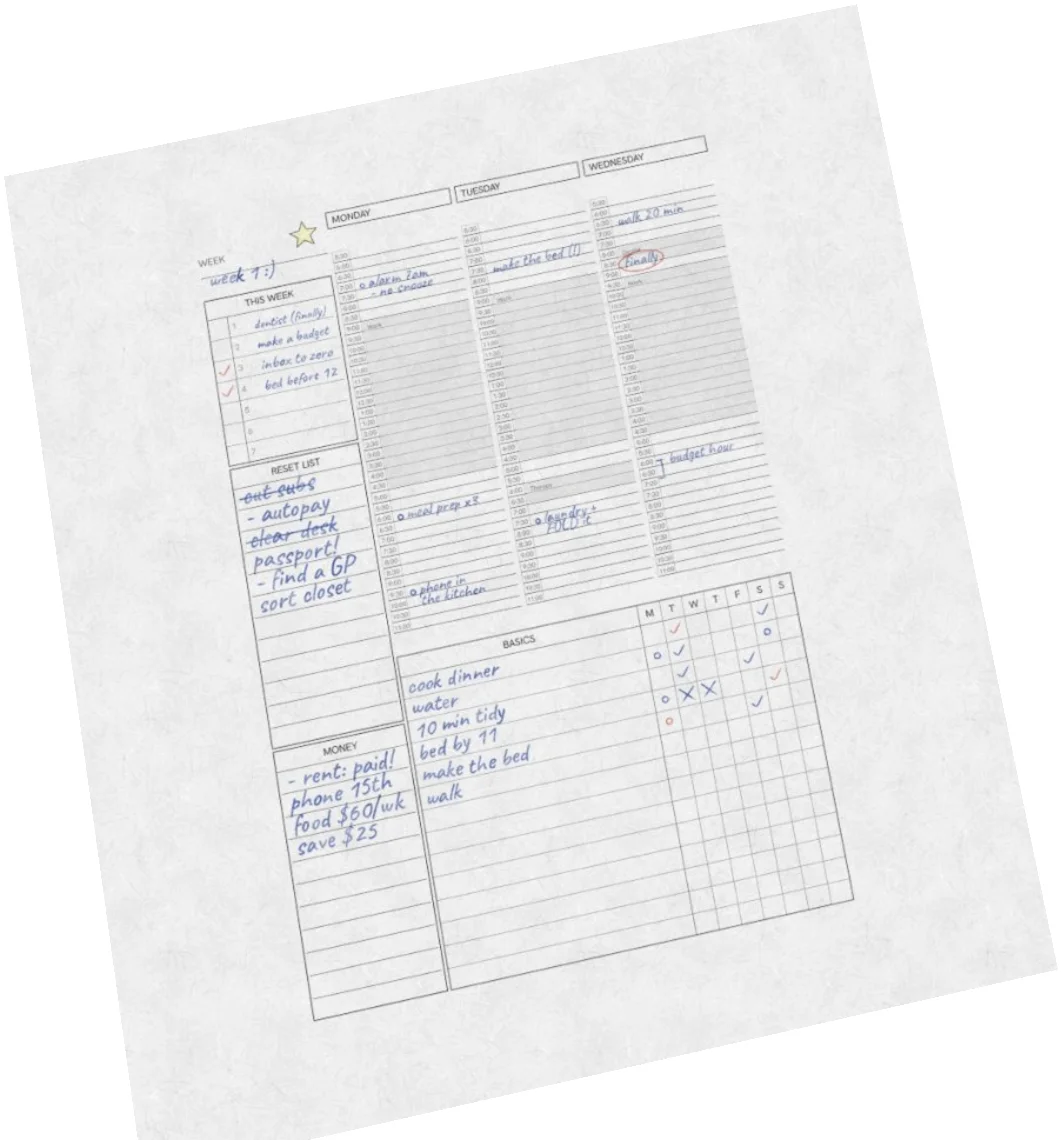
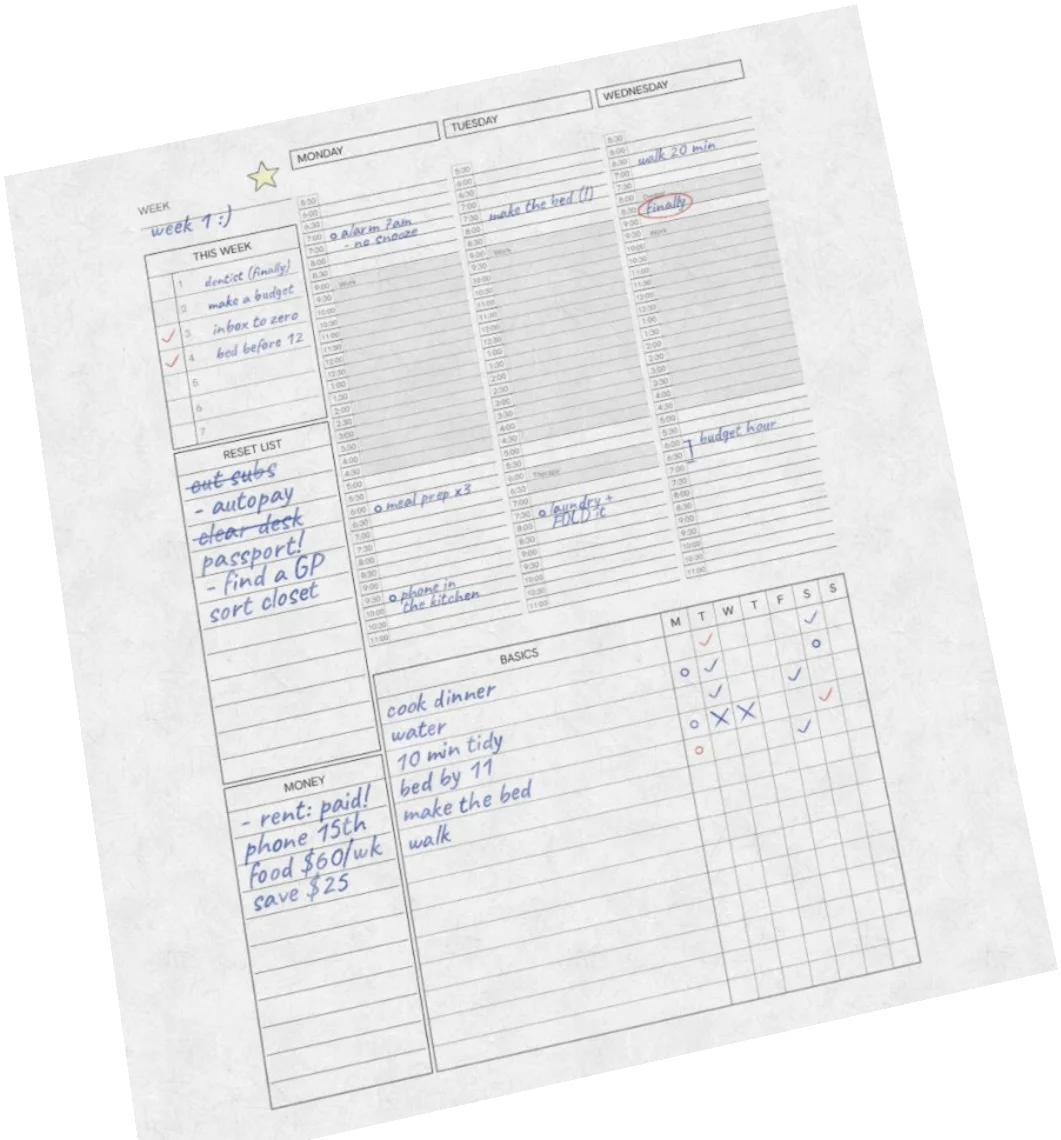
Hero: the base week printed to fit its loose sheets
The layouts were too small on the sheets. The whole 7 x 10 page,
margins and all, was centred on a sheet that is nearly square in the
film. Now the layout is printed without the page's own blank margins,
as tall as the sheet less a printer's quarter inch: about 21% bigger.

The right page's plans moved to its right half. The book's corner lies
across the right sheet's bottom left and was covering the start of every
line of "When It's Sorted".

diff --git a/src/app/dev/sheets/SheetsBake.tsx b/src/app/dev/sheets/SheetsBake.tsx
@@ -2,14 +2,15 @@
 
 // The base week on the hero's loose sheets: each page printed and written
 // in as the journal's are (PageSurface, bare; the handwriting, finished),
-// centred on its sheet like a printout, and baked into the film by
+// printed to fit its sheet (looseSheets.ts, BASE_SHEET), and baked into the film by
 // bakeSheet - then shown on the film's resting frame, clipped to the book as
 // the hero clips it. The baked pictures are left on `window.__heroSheets`
 // for scripts/build-hero-sheets.mts to save.
 
 import { useEffect, useState } from "react";
 import type { LandingSpread } from "@/app/landing/spreads";
-import { PageSurface } from "@/app/landing/desk/pageSurface";
+import { PAGE_H, PageSurface } from "@/app/landing/desk/pageSurface";
+import { PLANNER_TRIMS } from "@/lib/planner-trims";
 import { familiesFor, planSpread } from "@/app/landing/handwriting/plan";
 import { inkTimeline, paintInk, prepareInk } from "@/app/landing/handwriting/ink";
 import { loadArtIndex } from "@/app/landing/handwriting/art";
@@ -31,7 +32,14 @@ const load = (src: string) =>
 async function bake(spread: LandingSpread, seed: number): Promise<Baked> {
   const tileW = SHEET_TILE.w * SHEET_TILE.scale;
   const tileH = SHEET_TILE.h * SHEET_TILE.scale;
-  const height = Math.round(tileH * BASE_SHEET.fill);
+  // What is printed: the layout's grid, inside the page's own margins, and
+  // a little round it for ink that runs over its edge (print px).
+  const { widthPx, heightPx, marginPx } = PLANNER_TRIMS.bound7x10;
+  const inset = marginPx - 24;
+  const crop = [inset, inset, widthPx - 2 * inset, heightPx - 2 * inset];
+  // As tall as the sheet less the printer's margin: tile px per print px.
+  const fit = (tileH - 2 * BASE_SHEET.margin * SHEET_TILE.scale) / crop[3];
+  const height = Math.round(PAGE_H * fit);
   const pages = [new PageSurface(height, { bare: true }), new PageSurface(height, { bare: true })] as const;
   for (const [i, page] of spread.pages.entries()) await pages[i].print(page, spread.fontFamily, i === 0 ? "left" : "right");
 
@@ -52,7 +60,9 @@ async function bake(spread: LandingSpread, seed: number): Promise<Baked> {
     const g = tile.getContext("2d")!;
     g.fillStyle = "#ffffff";
     g.fillRect(0, 0, tileW, tileH);
-    g.drawImage(page, Math.round((tileW - page.width) / 2), Math.round((tileH - page.height) / 2));
+    const s = pages[i].scale;
+    const [w, h] = [crop[2] * fit, crop[3] * fit];
+    g.drawImage(page, crop[0] * s, crop[1] * s, crop[2] * s, crop[3] * s, (tileW - w) / 2, (tileH - h) / 2, w, h);
     tiles[id] = tile.toDataURL("image/png");
     sheets[id] = await bakeSheet(sheetBakeInput(id, tiles[id], (p) => p));
   }

diff --git a/src/app/landing/looseSheets.ts b/src/app/landing/looseSheets.ts
@@ -19,17 +19,22 @@ import { SHEETS, sheetMaskPath, type SheetId } from "./video/sheets";
 
 /** A sheet's own units: about the paper's proportions (a sheet measures
  *  1.15 tall to 1 across, taking out the camera's slant), and the margin of
- *  paper left round what is on it. */
+ *  paper left round the tile. None: the tile is the whole sheet, and what is
+ *  printed on it keeps its own margin (BASE_SHEET). */
 export const SHEET_TILE = { w: 1000, h: 1150, scale: 2 };
-export const SHEET_MARGIN = 45;
+export const SHEET_MARGIN = 0;
 
 /**
- * The base week's page on its sheet: as tall as `fill` of the tile, centred
- * - a 7 x 10 page printed on a bigger sheet, with the margins a printer
- * leaves (about 5% top and bottom, 14% each side). `seed` is the
- * handwriting's: the one written in, chosen by eye.
+ * The base week's page on its sheet: printed to fit, as a page is printed
+ * at home - its layout without the page's own blank margins, as tall as
+ * the sheet less `margin` (tile units: about the quarter inch a printer
+ * leaves) top and bottom, and centred across. (The whole 7 x 10 page
+ * centred, margins and all, came out "too small on the pieces of paper",
+ * 2026-10-07: the sheets in the film are nearly square, a page is tall, so
+ * its height is all there is to fill.) `seed` is the handwriting's: the
+ * one written in, chosen by eye.
  */
-export const BASE_SHEET = { fill: 0.97, seed: 4 };
+export const BASE_SHEET = { margin: 28, seed: 4 };
 
 export type SheetBakeInput = {
   /** What is on the sheet: SHEET_TILE at its scale, ink on white. */

diff --git a/src/app/landing/heroExtras.ts b/src/app/landing/heroExtras.ts
@@ -931,10 +931,12 @@ export const BASE_SPREAD: HeroSpread = {
       ["labeled-box", 12, box("Money", "lined")],
     ],
     belowLeft: [at("habit-tracker", 6, BELOW_ROW, 18, 15, { heading: "Basics" })],
+    // The plans on the right: in the film the book's corner lies across
+    // the right sheet's bottom left, and took the start of every line.
     belowRight: [
-      at("savings-goal", 0, BELOW_ROW, 12, 5, { heading: "Lisbon Fund" }),
-      at("labeled-box", 0, BELOW_ROW + 5, 12, 10, box("When It's Sorted", "lined")),
-      at("someday-maybe", 12, BELOW_ROW, 12, 15, { heading: "Someday Soon" }),
+      at("someday-maybe", 0, BELOW_ROW, 12, 15, { heading: "Someday Soon" }),
+      at("savings-goal", 12, BELOW_ROW, 12, 5, { heading: "Lisbon Fund" }),
+      at("labeled-box", 12, BELOW_ROW + 5, 12, 10, box("When It's Sorted", "lined")),
     ],
   },
   hand: { words: { font: "caveat", caps: false, weight: 500, scale: 1.42 }, banner: { font: "marker", caps: true, scale: 1 }, pen: ink("#24439c", 3.8), accent: ink("#d4553f", 3.6), highlight: highlighter("#ffe45c") },
